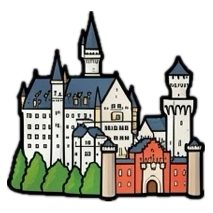
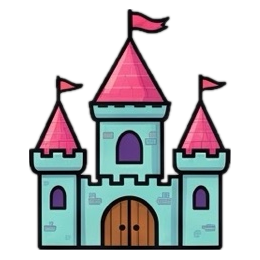
Le monde magique : princesse, cœur, nuage, fées, chevaliers, châteaux
La planche « magie » est découpée et embarquée (27 dessins : princesses
de 4 couleurs, fées, chevaliers, château de conte, baguette, cœurs,
nuages, étoiles de couleur, diamants, dragons violet et rouge).

- CartoonArt : les derniers personnages vectoriels passent au dessin —
  princesse, cœur, nuage ; le château devient le château de conte (plus
  enfantin que Neuschwanstein, qui reste dans la banque des monuments).
- Fenêtre magique : la princesse remplace le manège (sans dessin), et 3
  surprises de plus — la fée, le chevalier, le dragon (15 au total).
- ForEmoji : 11 correspondances de plus (216, vérifiées sans doublon ni
  fichier manquant) ; 🏰 et 🌠 pointent vers les versions conte de fées.
- LISEZ-MOI : liste des surprises et monde magique à jour.

Claude-Session: https://claude.ai/code/session_01MuK8ZWeH8YiigUE4AMcK3J

diff --git a/desktop/MesPremiersJeux/Lib/Art.cs b/desktop/MesPremiersJeux/Lib/Art.cs
@@ -123,7 +123,7 @@ namespace MesPremiersJeux.Lib
             { "🍃", "feuille" }, { "🍂", "feuille" }, { "🐚", "coquillage" }, { "🌈", "arc-en-ciel" },
             { "🌙", "lune" }, { "❄", "flocon" }, { "🌻", "tournesol" }, { "🌵", "cactus" },
             { "☀", "soleil" }, { "🌞", "soleil" }, { "🌸", "fleur" }, { "🌼", "fleur" },
-            { "🌺", "fleur" }, { "🌳", "arbre" }, { "🌲", "arbre" }, { "🌠", "etoile" },
+            { "🌺", "fleur" }, { "🌳", "arbre" }, { "🌲", "arbre" }, { "🌠", "etoile-filante" },
             // Objets
             { "🔨", "marteau" }, { "🖌", "pinceau" }, { "🎨", "palette" }, { "🎒", "sac" },
             { "✏", "crayon" }, { "🔭", "telescope" }, { "🏀", "ballon-basket" }, { "🔍", "loupe" },
@@ -167,7 +167,12 @@ namespace MesPremiersJeux.Lib
             { "🧆", "plat-falafel" }, { "🍟", "plat-fish-and-chips" },
             // Monuments
             { "🗼", "lieu-france" }, { "🗽", "lieu-amerique" }, { "🗻", "lieu-japon" },
-            { "🏯", "lieu-chine" }, { "🏰", "monument-neuschwanstein" },
+            { "🏯", "lieu-chine" }, { "🏰", "chateau-conte" },
+            // Le monde magique
+            { "👸", "princesse" }, { "🧚", "fee" }, { "🪄", "baguette-magique" },
+            { "🛡", "chevalier" }, { "❤", "coeur" }, { "💖", "coeur-rose" },
+            { "💗", "coeur-framboise" }, { "💜", "coeur-violet" }, { "☁", "nuage" },
+            { "💎", "diamant" }, { "⭐", "etoile" },
         };
 
         /// <summary>
@@ -235,7 +240,12 @@ namespace MesPremiersJeux.Lib
                     "  surprise-5.png  (baleine)     surprise-6.png  (tracteur)\r\n" +
                     "  surprise-7.png  (arc-en-ciel) surprise-8.png  (dinosaure)\r\n" +
                     "  surprise-9.png  (gâteau)      surprise-10.png (éléphant)\r\n" +
-                    "  surprise-11.png (bateau)      surprise-12.png (manège)\r\n\r\n" +
+                    "  surprise-11.png (bateau)      surprise-12.png (princesse)\r\n" +
+                    "  surprise-13.png (fée)         surprise-14.png (chevalier)\r\n" +
+                    "  surprise-15.png (dragon)      (toutes FOURNIES avec l'application)\r\n\r\n" +
+                    "Le monde magique (fourni) : princesse, fee, chevalier, chateau-conte,\r\n" +
+                    "  baguette-magique, coeur, nuage, diamant, etoile-filante... (+ couleurs :\r\n" +
+                    "  princesse-bleue, coeur-violet, etoile-rose, dragon-rouge...)\r\n\r\n" +
                     "Décors de scène (toute l'image de fond d'un jeu) :\r\n" +
                     "  decor-oiseaux.png   (les oiseaux chanteurs — ex. « grand arbre\r\n" +
                     "  feuillu avec deux branches horizontales dégagées, ciel doux,\r\n" +

diff --git a/desktop/MesPremiersJeux/Games/CartoonArt.cs b/desktop/MesPremiersJeux/Games/CartoonArt.cs
@@ -322,7 +322,7 @@ namespace MesPremiersJeux.Games
 
         public static readonly List<CartoonItem> Items = new List<CartoonItem>
         {
-            new CartoonItem { Name = "chateau",   Fr = "le château",     Cat = "la magie",    Build = Pic("monument-neuschwanstein", Castle) },
+            new CartoonItem { Name = "chateau",   Fr = "le château",     Cat = "la magie",    Build = Pic("chateau-conte", Castle) },
             new CartoonItem { Name = "chat",      Fr = "le chat",        Cat = "les animaux", Build = Pic("chat", Cat) },
             new CartoonItem { Name = "cochon",    Fr = "le cochon",      Cat = "les animaux", Build = Pic("cochon", Pig) },
             new CartoonItem { Name = "chien",     Fr = "le chien",       Cat = "les animaux", Build = Pic("chien", Dog) },
@@ -331,14 +331,14 @@ namespace MesPremiersJeux.Games
             new CartoonItem { Name = "poisson",   Fr = "le poisson",     Cat = "les animaux", Build = Pic("poisson", Fish) },
             new CartoonItem { Name = "papillon",  Fr = "le papillon",    Cat = "les animaux", Build = Pic("papillon", Butterfly) },
             new CartoonItem { Name = "licorne",   Fr = "la licorne",     Cat = "la magie",    Build = Pic("licorne", Unicorn) },
-            new CartoonItem { Name = "princesse", Fr = "la princesse",   Cat = "la magie",    Build = Princess },
+            new CartoonItem { Name = "princesse", Fr = "la princesse",   Cat = "la magie",    Build = Pic("princesse", Princess) },
             new CartoonItem { Name = "etoile",    Fr = "l'étoile",       Cat = "la magie",    Build = Pic("etoile", Star) },
-            new CartoonItem { Name = "coeur",     Fr = "le cœur",        Cat = "la magie",    Build = Heart },
+            new CartoonItem { Name = "coeur",     Fr = "le cœur",        Cat = "la magie",    Build = Pic("coeur", Heart) },
             new CartoonItem { Name = "fleur",     Fr = "la fleur",       Cat = "la magie",    Build = Pic("fleur", Flower) },
             new CartoonItem { Name = "couronne",  Fr = "la couronne",    Cat = "la magie",    Build = Pic("couronne", Crown) },
             new CartoonItem { Name = "arcenciel", Fr = "l'arc-en-ciel",  Cat = "la magie",    Build = Pic("arc-en-ciel", Rainbow) },
             new CartoonItem { Name = "soleil",    Fr = "le soleil",      Cat = "la magie",    Build = Pic("soleil", Sun) },
-            new CartoonItem { Name = "nuage",     Fr = "le nuage",       Cat = "la magie",    Build = Cloud },
+            new CartoonItem { Name = "nuage",     Fr = "le nuage",       Cat = "la magie",    Build = Pic("nuage", Cloud) },
         };
     }
 }

diff --git a/desktop/MesPremiersJeux/Games/MagicWindowGame.cs b/desktop/MesPremiersJeux/Games/MagicWindowGame.cs
@@ -25,7 +25,8 @@ namespace MesPremiersJeux.Games
             ("🦁", "un lion"), ("🦄", "une licorne"), ("🚀", "une fusée"),
             ("🏰", "un château"), ("🐳", "une baleine"), ("🚜", "un tracteur"),
             ("🌈", "un arc-en-ciel"), ("🦖", "un dinosaure"), ("🎂", "un gâteau"),
-            ("🐘", "un éléphant"), ("⛵", "un bateau"), ("🎠", "un manège"),
+            ("🐘", "un éléphant"), ("⛵", "un bateau"), ("👸", "une princesse"),
+            ("🧚", "une fée"), ("🛡", "un chevalier"), ("🐉", "un dragon"),
         };
 
         private readonly Random _rng = new Random();
